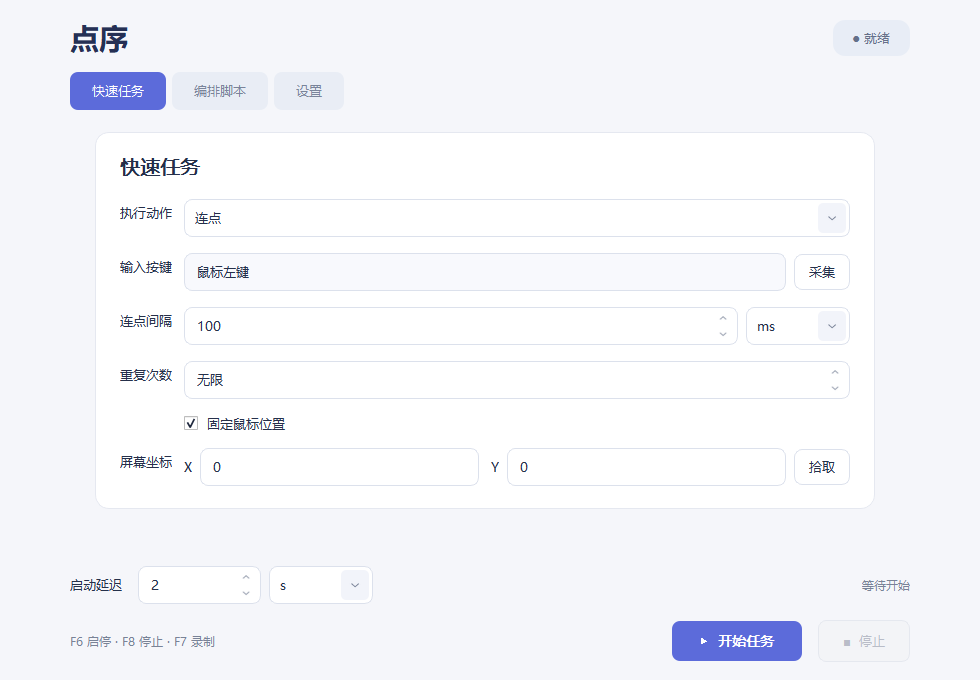
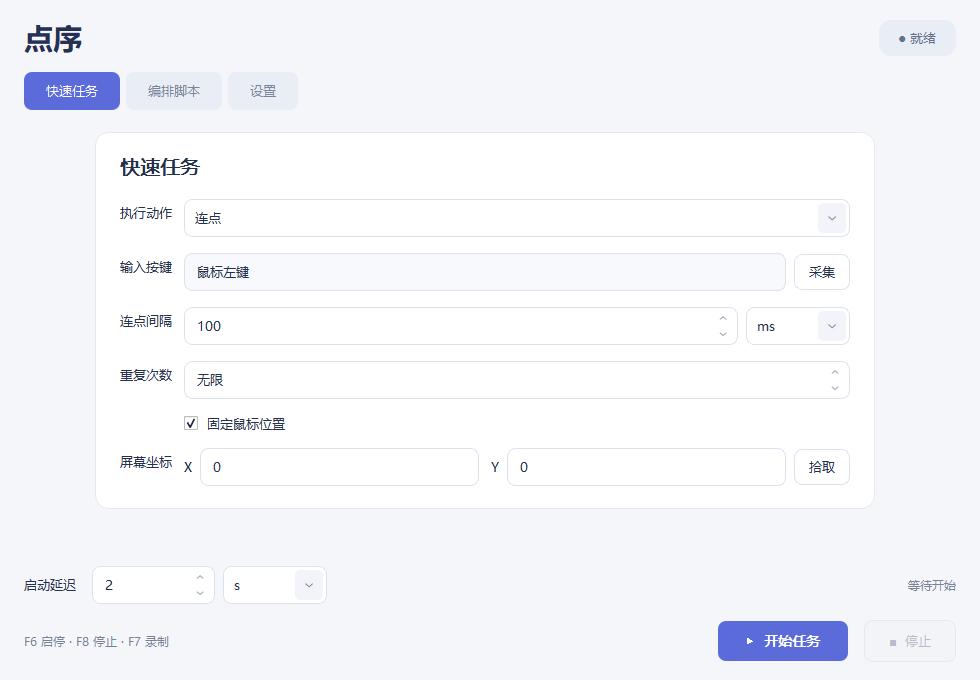
fix: keep navigation stable and pick coordinates with an overlay

diff --git a/tests/test_clicker.cpp b/tests/test_clicker.cpp
@@ -1,4 +1,5 @@
 #include "window.h"
+#include "positionpicker.h"
 #include <QTest>
 #include <QSignalSpy>
 #include <QJsonDocument>
@@ -11,6 +12,10 @@
 #include <QVBoxLayout>
 #include <QStyleFactory>
 #include <QStyleOptionComboBox>
+#include <QTabBar>
+#include <QScreen>
+#include <QMouseEvent>
+#include <QWindow>
 
 class FakeInput : public InputSink {
 public:
@@ -22,6 +27,12 @@ public:
         events<<QString("%1:%2").arg(k.code).arg(down?"down":"up"); return true;
     }
     bool move(const QPoint &p,QString &) override { events<<QString("move:%1,%2").arg(p.x()).arg(p.y()); return true; }
+};
+class ClickTarget : public QWidget {
+public:
+    int clicks=0;
+protected:
+    void mousePressEvent(QMouseEvent *event) override { ++clicks; event->accept(); }
 };
 class Tests : public QObject {
     Q_OBJECT
@@ -186,6 +197,69 @@ private slots:
             tabs->setCurrentIndex(2); QTest::qWait(100); w.grab().save(visualOutput+"/settings-maximized.png");
             auto *combo=w.findChild<QComboBox *>("quickAction"); tabs->setCurrentIndex(0); combo->showPopup(); QTest::qWait(100);
             combo->view()->window()->grab().save(visualOutput+"/action-dropdown.png"); combo->hidePopup();
+        }
+        w.close();
+    }
+    void pageSwitchKeepsNavigationAndControlsStationary() {
+        Window w(nullptr,true); w.show(); auto *tabs=w.findChild<QTabWidget *>("tabs");
+        auto rect=[&w](QWidget *widget) { return QRect(widget->mapTo(&w,QPoint()),widget->size()); };
+        for(const QSize size:{QSize(800,480),QSize(980,680),QSize(2560,1440)}) {
+            w.resize(size); tabs->setCurrentIndex(0); QCoreApplication::processEvents();
+            const QRect navigation=rect(tabs->tabBar()),brand=rect(w.findChild<QLabel *>("brand")),start=rect(w.findChild<QPushButton *>("primary")),delay=rect(w.findChild<TimeField *>("startDelay"));
+            for(int page:{1,2,0,1,0,2,0}) {
+                tabs->setCurrentIndex(page); QCoreApplication::processEvents();
+                QCOMPARE(rect(tabs->tabBar()),navigation); QCOMPARE(rect(w.findChild<QLabel *>("brand")),brand);
+                QCOMPARE(rect(w.findChild<QPushButton *>("primary")),start); QCOMPARE(rect(w.findChild<TimeField *>("startDelay")),delay);
+            }
+        }
+        w.close();
+    }
+    void pickerWaitsForReleaseAndEscPreservesCoordinates() {
+        QWidget owner; owner.show(); PositionPicker picker(&owner); POINT saved; QVERIFY(GetPhysicalCursorPos(&saved));
+        auto restore=qScopeGuard([&] { SetPhysicalCursorPos(saved.x,saved.y); });
+        QPoint expected;
+        QTimer::singleShot(5000,&picker,&QDialog::reject);
+        QTimer::singleShot(0,&picker,[&] {
+            QTest::mousePress(&picker,Qt::LeftButton,Qt::NoModifier,QPoint(50,50)); QVERIFY(picker.isVisible());
+            const qreal scale=picker.devicePixelRatioF(); POINT point{qRound(50*scale),qRound(50*scale)};
+            QVERIFY(ClientToScreen(reinterpret_cast<HWND>(picker.winId()),&point) || GetPhysicalCursorPos(&point)); expected=QPoint(point.x,point.y);
+            QTest::mouseRelease(&picker,Qt::LeftButton,Qt::NoModifier,QPoint(70,70));
+        });
+        QCOMPARE(picker.exec(),int(QDialog::Accepted)); QCOMPARE(picker.position(),expected); QVERIFY(!picker.isVisible());
+        Window w(nullptr,true); w.show(); auto *editor=w.findChild<StepEditor *>(); Step step; step.fixedPosition=true; step.position=QPoint(-123,456); editor->setValue(step); QSignalSpy changed(editor,&StepEditor::changed);
+        QTimer::singleShot(5000,&w,[&] { if(auto *dialog=QApplication::activeModalWidget()) dialog->close(); });
+        QTimer::singleShot(0,&w,[&] { auto *dialog=qobject_cast<PositionPicker *>(QApplication::activeModalWidget()); QVERIFY(dialog); QTest::keyClick(dialog,Qt::Key_Escape); });
+        w.findChild<QPushButton *>("quickPositionCapture")->click(); QCOMPARE(editor->value().position,step.position); QCOMPARE(changed.count(),0); QVERIFY(w.isVisible()); w.close();
+    }
+    void nativePickerBlocksUnderlyingClickAndRestoresWindow() {
+        if(QGuiApplication::platformName()!=QStringLiteral("windows")) QSKIP("Requires the native Windows UI backend; run separately with QT_QPA_PLATFORM=windows.");
+        POINT saved; QVERIFY(GetPhysicalCursorPos(&saved)); HWND foreground=GetForegroundWindow();
+        auto restore=qScopeGuard([&] { SetPhysicalCursorPos(saved.x,saved.y); if(foreground) SetForegroundWindow(foreground); });
+        ClickTarget target; target.resize(260,160); target.move(40,40); target.show();
+        Window w(nullptr,true); w.show(); auto *tabs=w.findChild<QTabWidget *>("tabs");
+        QPoint selected;
+        for(auto *screen:QApplication::screens()) for(int page:{0,1}) {
+            target.windowHandle()->setScreen(screen); target.move(screen->geometry().topLeft()+QPoint(40,40));
+            if(page==1) w.showMaximized();
+            tabs->setCurrentIndex(page); QCoreApplication::processEvents();
+            const bool originalMaximized=w.isMaximized();
+            QTimer::singleShot(5000,&w,[&] { if(auto *dialog=QApplication::activeModalWidget()) dialog->close(); });
+            QTimer::singleShot(150,&w,[&] {
+                auto *picker=qobject_cast<PositionPicker *>(QApplication::activeModalWidget()); QVERIFY(picker);
+                RECT bounds; QVERIFY(GetWindowRect(reinterpret_cast<HWND>(target.winId()),&bounds));
+                selected=QPoint((bounds.left+bounds.right)/2,(bounds.top+bounds.bottom)/2);
+                INPUT click[3]={}; for(auto &event:click) event.type=INPUT_MOUSE;
+                click[0].mi.dwFlags=MOUSEEVENTF_MOVE|MOUSEEVENTF_ABSOLUTE|MOUSEEVENTF_VIRTUALDESK;
+                click[0].mi.dx=LONG((qint64(selected.x()-GetSystemMetrics(SM_XVIRTUALSCREEN))*65536+32768)/GetSystemMetrics(SM_CXVIRTUALSCREEN));
+                click[0].mi.dy=LONG((qint64(selected.y()-GetSystemMetrics(SM_YVIRTUALSCREEN))*65536+32768)/GetSystemMetrics(SM_CYVIRTUALSCREEN));
+                click[1].mi.dwFlags=MOUSEEVENTF_LEFTDOWN; click[2].mi.dwFlags=MOUSEEVENTF_LEFTUP;
+                QCOMPARE(SendInput(3,click,sizeof(INPUT)),UINT(3));
+            });
+            auto *button=w.findChild<QPushButton *>(page==0?"quickPositionCapture":"stepPositionCapture"); button->click();
+            QCOMPARE(target.clicks,0); QCOMPARE(w.findChild<QSpinBox *>(page==0?"quickX":"stepX")->value(),selected.x());
+            QCOMPARE(w.findChild<QSpinBox *>(page==0?"quickY":"stepY")->value(),selected.y());
+            QTRY_COMPARE(GetForegroundWindow(),reinterpret_cast<HWND>(w.winId())); QVERIFY(w.isVisible()); QCOMPARE(w.isMaximized(),originalMaximized); QCOMPARE(tabs->currentIndex(),page);
+            for(auto *widget:QApplication::topLevelWidgets()) QVERIFY(!widget->objectName().startsWith("positionPicker"));
         }
         w.close();
     }

diff --git a/src/positionpicker.cpp b/src/positionpicker.cpp
@@ -1,0 +1,100 @@
+#include "positionpicker.h"
+#include <QApplication>
+#include <QKeyEvent>
+#include <QMouseEvent>
+#include <QPainter>
+#include <QScreen>
+#include <QWindow>
+#include <QVariant>
+#include <windows.h>
+
+static void rememberNativePress(QWidget *surface,void *message) {
+    auto *msg=static_cast<MSG *>(message);
+    if(msg->message!=WM_LBUTTONDOWN && msg->message!=WM_LBUTTONDBLCLK) return;
+    surface->setProperty("nativePressPosition",QPoint(msg->pt.x,msg->pt.y));
+}
+
+static void paintSurface(QWidget *surface) {
+    QPainter painter(surface);
+    // Alpha must stay nonzero across the screen: fully transparent Windows
+    // layered-window pixels let clicks through to the application underneath.
+    painter.fillRect(surface->rect(),QColor(20,28,50,22));
+    painter.setRenderHint(QPainter::Antialiasing);
+    const QString hint=QStringLiteral("点击选取 · Esc 取消");
+    const int width=painter.fontMetrics().horizontalAdvance(hint)+36;
+    QRect bubble((surface->width()-width)/2,22,width,40);
+    painter.setPen(Qt::NoPen); painter.setBrush(QColor(255,255,255,245)); painter.drawRoundedRect(bubble,10,10);
+    painter.setPen(QColor("#25304a")); painter.drawText(bubble,Qt::AlignCenter,hint);
+}
+class PickerSurface : public QWidget {
+public:
+    explicit PickerSurface(QWidget *parent) : QWidget(parent,Qt::Tool|Qt::FramelessWindowHint|Qt::WindowStaysOnTopHint) {}
+protected:
+    void paintEvent(QPaintEvent *) override { paintSurface(this); }
+    bool nativeEvent(const QByteArray &type,void *message,qintptr *result) override {
+        rememberNativePress(this,message); return QWidget::nativeEvent(type,message,result);
+    }
+};
+
+PositionPicker::PositionPicker(QWidget *parent)
+    : QDialog(parent,Qt::Tool|Qt::FramelessWindowHint|Qt::WindowStaysOnTopHint) {
+    setObjectName("positionPicker"); setWindowTitle(QStringLiteral("拾取屏幕坐标"));
+    for(auto *screen:QApplication::screens()) {
+        QWidget *panel=screen==QApplication::primaryScreen()?static_cast<QWidget *>(this):new PickerSurface(this);
+        if(panel!=this) panel->setObjectName("positionPickerSurface"); panel->setAttribute(Qt::WA_TranslucentBackground);
+        panel->setCursor(Qt::CrossCursor); panel->setFocusPolicy(Qt::StrongFocus); panel->installEventFilter(this);
+        panel->winId(); panel->windowHandle()->setScreen(screen); panel->setGeometry(screen->geometry());
+        panels.append(panel);
+        connect(screen,&QScreen::geometryChanged,this,[this] { reject(); });
+    }
+    connect(qApp,&QGuiApplication::screenAdded,this,[this] { reject(); });
+    connect(qApp,&QGuiApplication::screenRemoved,this,[this] { reject(); });
+}
+void PositionPicker::showEvent(QShowEvent *event) {
+    QDialog::showEvent(event);
+    for(auto *panel:panels) if(panel!=this) panel->show();
+    raise(); activateWindow(); setFocus();
+}
+void PositionPicker::paintEvent(QPaintEvent *) { paintSurface(this); }
+bool PositionPicker::nativeEvent(const QByteArray &type,void *message,qintptr *result) {
+    rememberNativePress(this,message); return QDialog::nativeEvent(type,message,result);
+}
+bool PositionPicker::eventFilter(QObject *watched,QEvent *event) {
+    if(event->type()==QEvent::KeyPress) {
+        if(static_cast<QKeyEvent *>(event)->key()==Qt::Key_Escape) reject();
+        return true;
+    }
+    if(event->type()==QEvent::MouseButtonPress || event->type()==QEvent::MouseButtonDblClick) {
+        auto *mouse=static_cast<QMouseEvent *>(event);
+        if(mouse->button()==Qt::LeftButton) {
+            auto *panel=qobject_cast<QWidget *>(watched);
+            const QVariant nativePoint=panel->property("nativePressPosition");
+            if(nativePoint.isValid()) {
+                // Retain the original device-pixel position before Qt scales it;
+                // integer logical coordinates can lose a pixel at fractional DPI.
+                selected=nativePoint.toPoint(); pressed=true; panel->setProperty("nativePressPosition",QVariant());
+                return true;
+            }
+            const qreal scale=panel->devicePixelRatioF();
+            POINT point{qRound(mouse->position().x()*scale),qRound(mouse->position().y()*scale)};
+            // Convert the event's client position, not the cursor's later position.
+            // Native client coordinates are physical pixels on this DPI-aware app.
+            if(ClientToScreen(reinterpret_cast<HWND>(panel->winId()),&point) || GetPhysicalCursorPos(&point)) {
+                selected=QPoint(point.x,point.y); pressed=true;
+            }
+        }
+        return true;
+    }
+    if(event->type()==QEvent::MouseButtonRelease) {
+        auto *mouse=static_cast<QMouseEvent *>(event);
+        // Keep the overlay alive until release so neither half of the click
+        // reaches a target window or changes foreground applications.
+        if(mouse->button()==Qt::LeftButton && pressed) { pressed=false; accept(); }
+        return true;
+    }
+    return QDialog::eventFilter(watched,event);
+}
+void PositionPicker::done(int result) {
+    for(auto *panel:panels) if(panel!=this) panel->hide();
+    QDialog::done(result);
+}

diff --git a/src/window.cpp b/src/window.cpp
@@ -1,4 +1,5 @@
 #include "window.h"
+#include "positionpicker.h"
 #include <QApplication>
 #include <QButtonGroup>
 #include <QDialog>
@@ -121,10 +122,14 @@ void StepEditor::updateFields() {
     fixed->setVisible(mouseInput); visible(positionRow,a==Action::Move || (mouseInput && fixed->isChecked()));
 }
 void StepEditor::capture(bool position) {
-    CaptureDialog d(position,this);
-    if(d.exec()!=QDialog::Accepted) return;
-    if(position) { loading=true; x->setValue(d.point.x()); y->setValue(d.point.y()); fixed->setChecked(true); loading=false; }
-    else { loading=true; setKey(d.key); loading=false; }
+    QWidget *owner=window();
+    bool accepted=false; QPoint point; InputKey key;
+    if(position) { PositionPicker picker(owner); accepted=picker.exec()==QDialog::Accepted; point=picker.position(); }
+    else { CaptureDialog dialog(false,this); accepted=dialog.exec()==QDialog::Accepted; key=dialog.key; }
+    if(owner->isVisible()) { owner->raise(); owner->activateWindow(); SetForegroundWindow(reinterpret_cast<HWND>(owner->winId())); }
+    if(!accepted) return;
+    if(position) { loading=true; x->setValue(point.x()); y->setValue(point.y()); fixed->setChecked(true); loading=false; }
+    else { loading=true; setKey(key); loading=false; }
     updateFields(); emit changed();
 }
 
@@ -204,7 +209,7 @@ Window::Window(QWidget *parent,bool testing):QMainWindow(parent),engine(sink,thi
         QScrollBar::add-line:vertical, QScrollBar::sub-line:vertical { height: 0; }
     )"));
     auto *central=new QWidget; setCentralWidget(central); auto *outer=new QHBoxLayout(central); outer->setContentsMargins(24,20,24,18);
-    auto *workspace=new QWidget; workspace->setObjectName("workspace"); workspace->setMaximumWidth(840); workspace->setMaximumHeight(660);
+    auto *workspace=new QWidget; workspace->setObjectName("workspace"); workspace->setMaximumWidth(1120); workspace->setMaximumHeight(900);
     outer->addStretch(); outer->addWidget(workspace,1); outer->addStretch();
     auto *root=new QVBoxLayout(workspace); root->setContentsMargins(0,0,0,0); root->setSpacing(16);
     auto *header=new QHBoxLayout; header->addWidget(label(QStringLiteral("点序"),"brand")); header->addStretch();
@@ -294,7 +299,7 @@ Window::Window(QWidget *parent,bool testing):QMainWindow(parent),engine(sink,thi
         else if(recording) endRecording();
         else if(engine.running()) engine.stop(); else start();
     });
-    connect(tabs,&QTabWidget::currentChanged,this,[this,workspace](int index) { workspace->setMaximumWidth(index==1?1120:840); workspace->setMaximumHeight(index==1?1000:660); roundsRow->setVisible(index==1); rounds->setEnabled(index==1 && !engine.running() && !recording); });
+    connect(tabs,&QTabWidget::currentChanged,this,[this](int index) { roundsRow->setVisible(index==1); rounds->setEnabled(index==1 && !engine.running() && !recording); });
     Step initial; initial.action=Action::Repeat; initial.count=0; quick->setValue(initial);
     Step first; first.action=Action::Click; refreshItem(new QListWidgetItem(flow),first);
     Step wait; wait.action=Action::Wait; wait.duration=500; refreshItem(new QListWidgetItem(flow),wait); flow->setCurrentRow(0);

diff --git a/src/positionpicker.h b/src/positionpicker.h
@@ -1,0 +1,20 @@
+#pragma once
+#include <QDialog>
+#include <QList>
+
+class PositionPicker : public QDialog {
+    Q_OBJECT
+public:
+    explicit PositionPicker(QWidget *parent=nullptr);
+    QPoint position() const { return selected; }
+protected:
+    bool eventFilter(QObject *,QEvent *) override;
+    bool nativeEvent(const QByteArray &,void *,qintptr *) override;
+    void paintEvent(QPaintEvent *) override;
+    void showEvent(QShowEvent *) override;
+    void done(int result) override;
+private:
+    QList<QWidget *> panels;
+    QPoint selected;
+    bool pressed=false;
+};

diff --git a/src/main.cpp b/src/main.cpp
@@ -14,7 +14,7 @@
 
 int main(int argc,char **argv) {
     QApplication app(argc,argv); app.setQuitOnLastWindowClosed(true);
-    app.setApplicationName("LianDianQi"); app.setOrganizationName("DianXu"); app.setApplicationVersion("1.0.2");
+    app.setApplicationName("LianDianQi"); app.setOrganizationName("DianXu"); app.setApplicationVersion("1.0.3");
     const QString testSettings=qEnvironmentVariable("LIANDIANQI_TEST_SETTINGS");
     if(!testSettings.isEmpty()) {
         QSettings::setDefaultFormat(QSettings::IniFormat);

diff --git a/docs/TESTING.md b/docs/TESTING.md
@@ -1,5 +1,12 @@
 # 验证记录
 
+## 1.0.3
+
+QtTest 离屏检查：29 项通过，0 失败；1 项真实窗口检查在离屏模式跳过，已在 Windows 界面后端单独验证。
+真实窗口检查：导航/底部操作区在 800×480、980×680、2560×1440 下反复切页保持位置不变。
+拾取覆盖层接收完整按下/抬起事件；Esc 取消保留旧坐标，选完后恢复原窗口焦点、页面及最大化状态。
+100% 与 150% 缩放下均通过两块屏幕的真实点击检查：物理坐标正确，下层测试窗口没有收到点击，覆盖层全部销毁。
+
 ## 1.0.2
 
 QtTest：27 项通过，0 失败（包含初始化与清理）。

diff --git a/docs/USAGE.md b/docs/USAGE.md
@@ -13,7 +13,8 @@
 
 鼠标默认在当前位置执行；勾选“固定鼠标位置”后可拾取目标位置。
 时间字段使用独立的 ms / s / min 下拉框，切换单位会换算当前数值。
-拾取时点击其他窗口会正常传递该点击。坐标是屏幕物理像素，支持多屏和负坐标。
+拾取时透明覆盖层会接收点击，不会误点其他窗口；选完后回到原窗口，Esc 可取消。
+坐标是屏幕物理像素，支持多屏和负坐标。
 
 ## 脚本流程
 

diff --git a/README.md b/README.md
@@ -56,7 +56,7 @@ powershell.exe -NoProfile -ExecutionPolicy Bypass -File scripts\build.ps1
 ```powershell
 python scripts\prepare-licenses.py
 powershell.exe -NoProfile -ExecutionPolicy Bypass -File scripts\package.ps1
-python tests\native_smoke.py --exe dist\DianXu-1.0.2-windows-x64\LianDianQi.exe
+python tests\native_smoke.py --exe dist\DianXu-1.0.3-windows-x64\LianDianQi.exe
 ```
 
 便携包包含运行依赖、示例、接入脚本、使用说明和第三方许可。ZIP 附有 SHA-256 校验文件。
